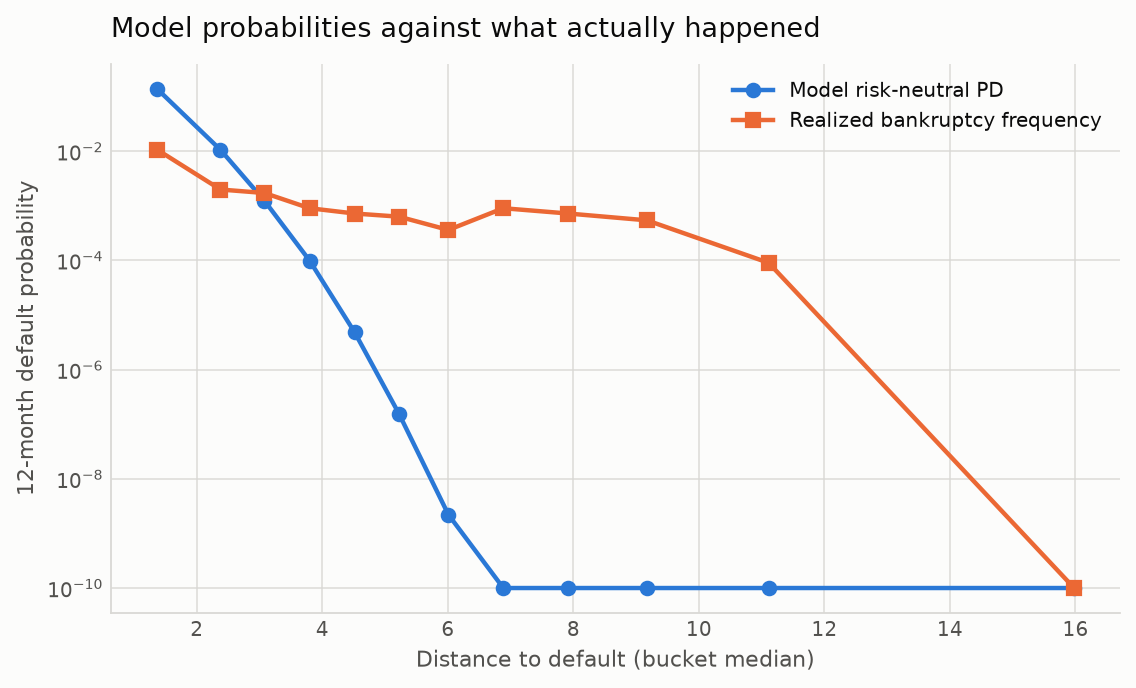
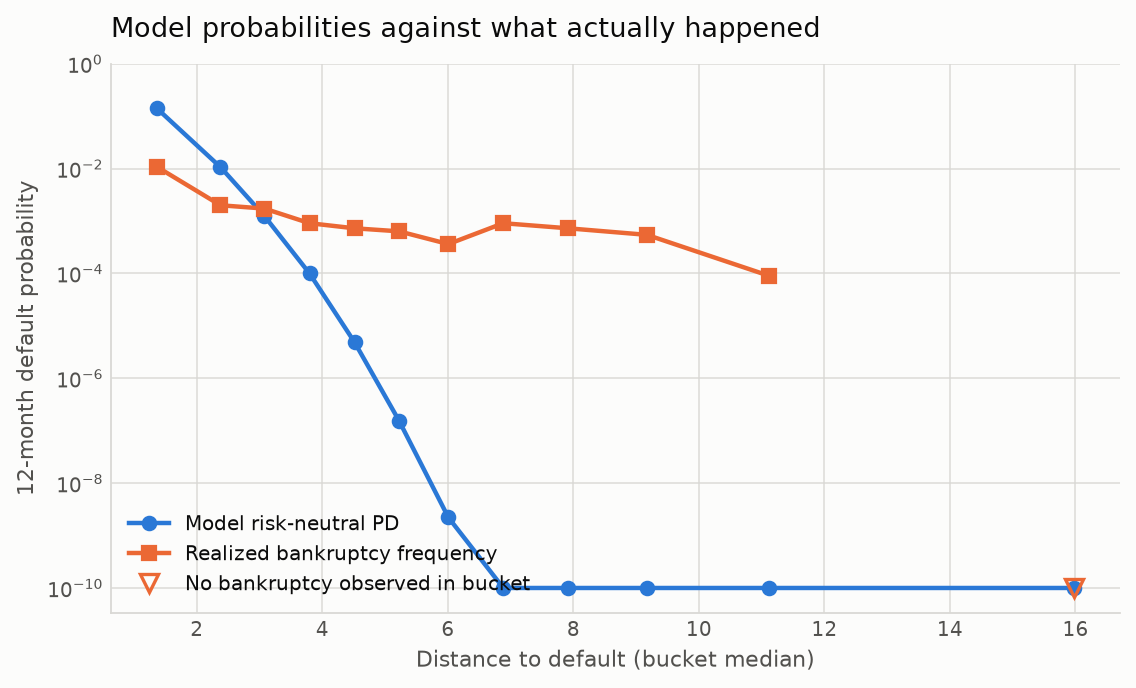
Stop the calibration chart from reading a zero-count bucket as a measurement
Both series were clipped to the plot floor, so a bucket in which no
bankruptcy was observed appeared as a realized probability of 1e-10 joined
into the line. That is not what the data says: zero events among those
firm-months is an upper bound set by the sample size, not a measurement of
a very small probability. The model's PD genuinely does underflow to zero
there, so plotting it at the floor is fair; the realized series now breaks
the line and marks those buckets with hollow markers instead.

Also adds the decile spread to the README -- realized bankruptcy rate falls
monotonically from 0.94% in the riskiest tenth of distance-to-default to
0.01% in the safest.

diff --git a/merton/analysis/figures.py b/merton/analysis/figures.py
@@ -116,21 +116,38 @@ def decile_figure(panel: pd.DataFrame, out: Path, score: str = "dd", n_bins: int
 
 def calibration_figure(panel: pd.DataFrame, out: Path, n_bins: int = 12,
                        label: str = "default_12m") -> Path:
-    """Model risk-neutral PD against the realized frequency, by DD bucket."""
+    """Model risk-neutral PD against the realized frequency, by DD bucket.
+
+    Both series are drawn on a log axis against a floor. The model's PD really
+    does underflow to zero in the safe buckets, so plotting it at the floor is
+    honest. A realized frequency of zero is not the same statement -- it means
+    no bankruptcy was observed among those firm-months, which given the sample
+    size is an upper bound rather than a measurement -- so those buckets are
+    drawn as hollow markers off the line instead of being joined into it.
+    """
     table = empirical_vs_model_pd(panel, n_bins=n_bins, label=label)
-    table = table[(table["model_pd"] > 0) | (table["empirical_pd"] > 0)]
     floor = 1e-10
 
     fig, ax = _figure()
     ax.plot(table["dd_mid"], table["model_pd"].clip(lower=floor), color=SERIES[0],
             linewidth=2, marker="o", markersize=6, label="Model risk-neutral PD")
-    ax.plot(table["dd_mid"], table["empirical_pd"].clip(lower=floor), color=SERIES[1],
+
+    observed = table[table["empirical_pd"] > 0]
+    ax.plot(observed["dd_mid"], observed["empirical_pd"], color=SERIES[1],
             linewidth=2, marker="s", markersize=6, label="Realized bankruptcy frequency")
 
+    none_seen = table[table["empirical_pd"] <= 0]
+    if not none_seen.empty:
+        ax.plot(none_seen["dd_mid"], np.full(len(none_seen), floor), linestyle="none",
+                marker="v", markersize=8, markerfacecolor="none",
+                markeredgecolor=SERIES[1], markeredgewidth=1.5,
+                label="No bankruptcy observed in bucket")
+
     ax.set_yscale("log")
+    ax.set_ylim(floor / 3, 1)
     _style(ax, "Model probabilities against what actually happened",
            "Distance to default (bucket median)", "12-month default probability")
-    legend = ax.legend(loc="upper right", frameon=False, fontsize=9)
+    legend = ax.legend(loc="lower left", frameon=False, fontsize=9)
     for text in legend.get_texts():
         text.set_color(INK)
     return _save(fig, out)

diff --git a/README.md b/README.md
@@ -22,6 +22,7 @@ Full output: **[results.md](results.md)**.
 | AUC, equity volatility / Altman Z / book leverage, same task | 0.77 / 0.76 / 0.62 |
 | Out-of-sample AUC: DD alone / accounting ratios / both | 0.82 / 0.76 / 0.83 |
 | Correlation, Δ median distance-to-default vs Δ Baa spread | −0.67 |
+| Bankruptcy rate, riskiest vs safest DD decile | 0.94% vs 0.01% |
 | Rank correlation, distance-to-default vs S&P rating (20 names) | 0.94 |
 
 Three findings are worth more than the headline number.
@@ -30,9 +31,10 @@ Three findings are worth more than the headline number.
 AUC 0.82, against 0.62 for book leverage and 0.76 for the Altman Z-score. Out of
 sample it beats a full set of accounting ratios on its own (0.82 against 0.76), and
 adding the ratios to it buys almost nothing (0.83) — the structural measure is doing
-the work. Firms that went on to file sat at a median distance-to-default of 0.8 in
-the quarter of filing, against 5.6 for firms that never filed, and the decline is
-already visible three years out.
+the work. The realized bankruptcy rate falls monotonically across distance-to-default
+deciles, from 0.94% in the riskiest tenth to 0.01% in the safest. Firms that went on
+to file sat at a median distance-to-default of 0.8 in the quarter of filing, against
+5.6 for firms that never filed, and the decline is already visible three years out.
 
 **On a broader distress definition, the model is beaten by the simplest possible
 benchmark.** If the event is "the equity lost 90% of its value," trailing equity
